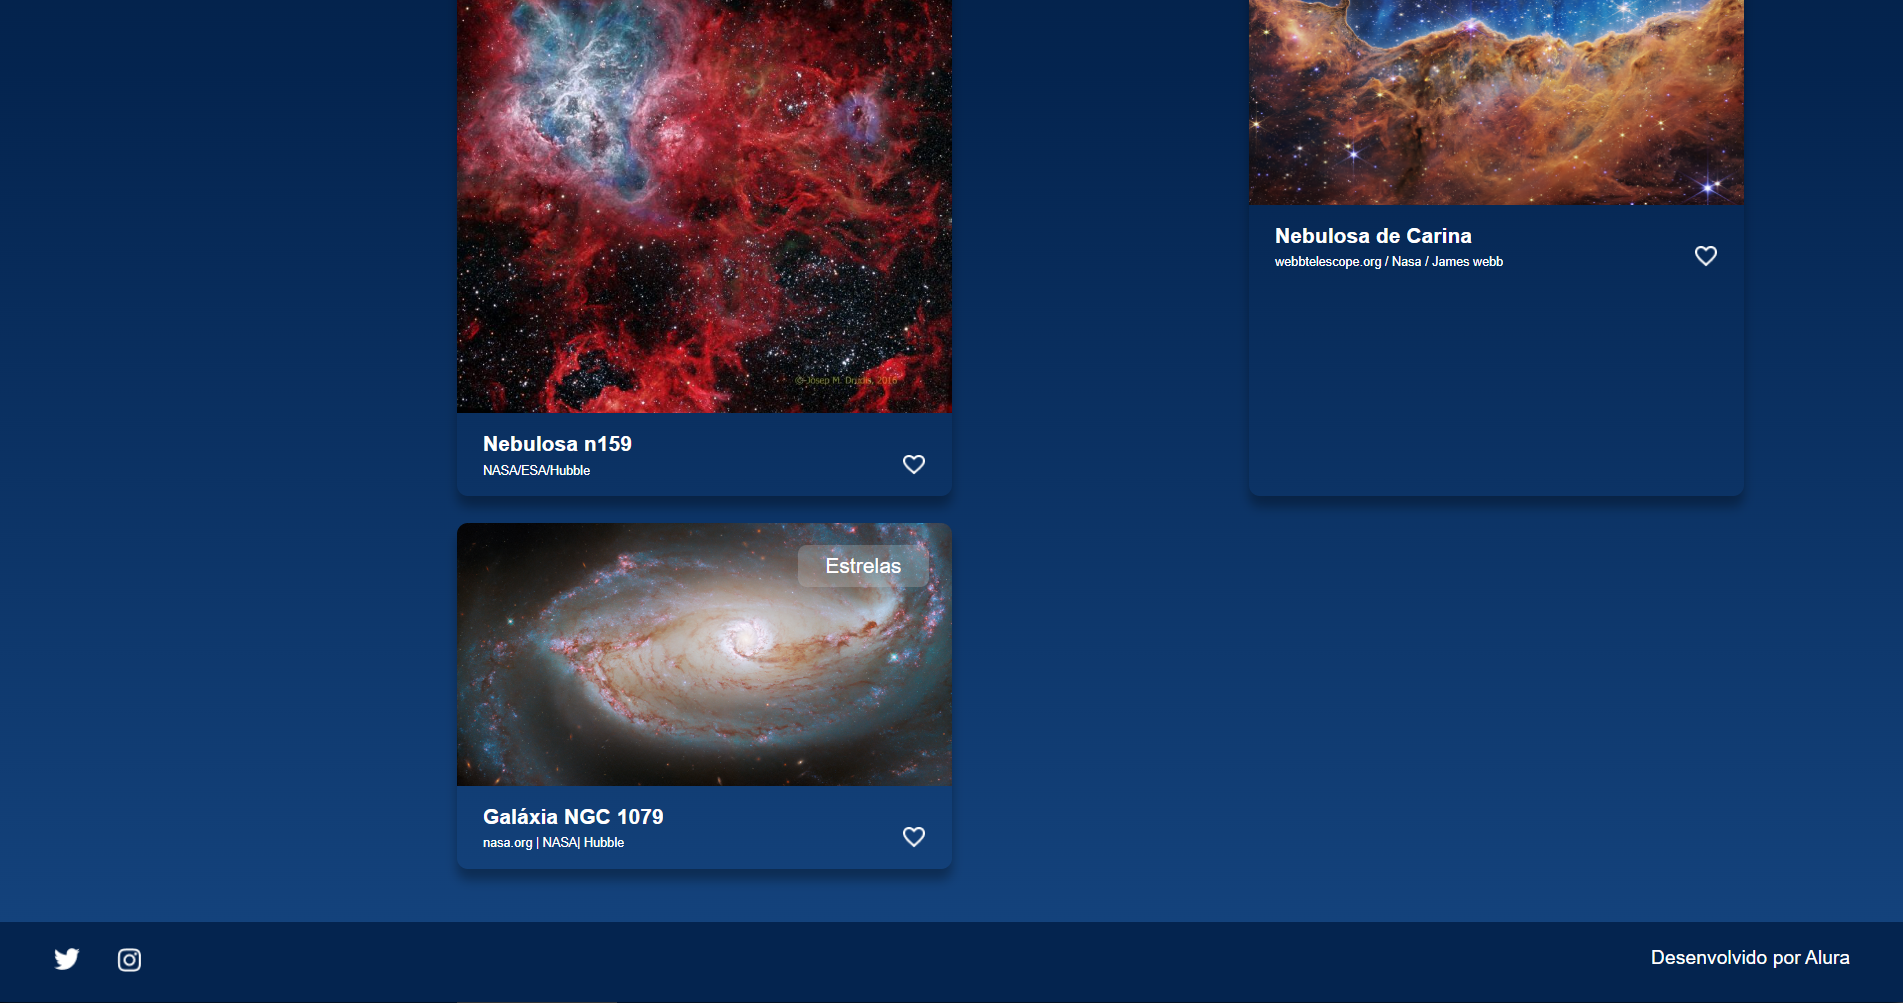
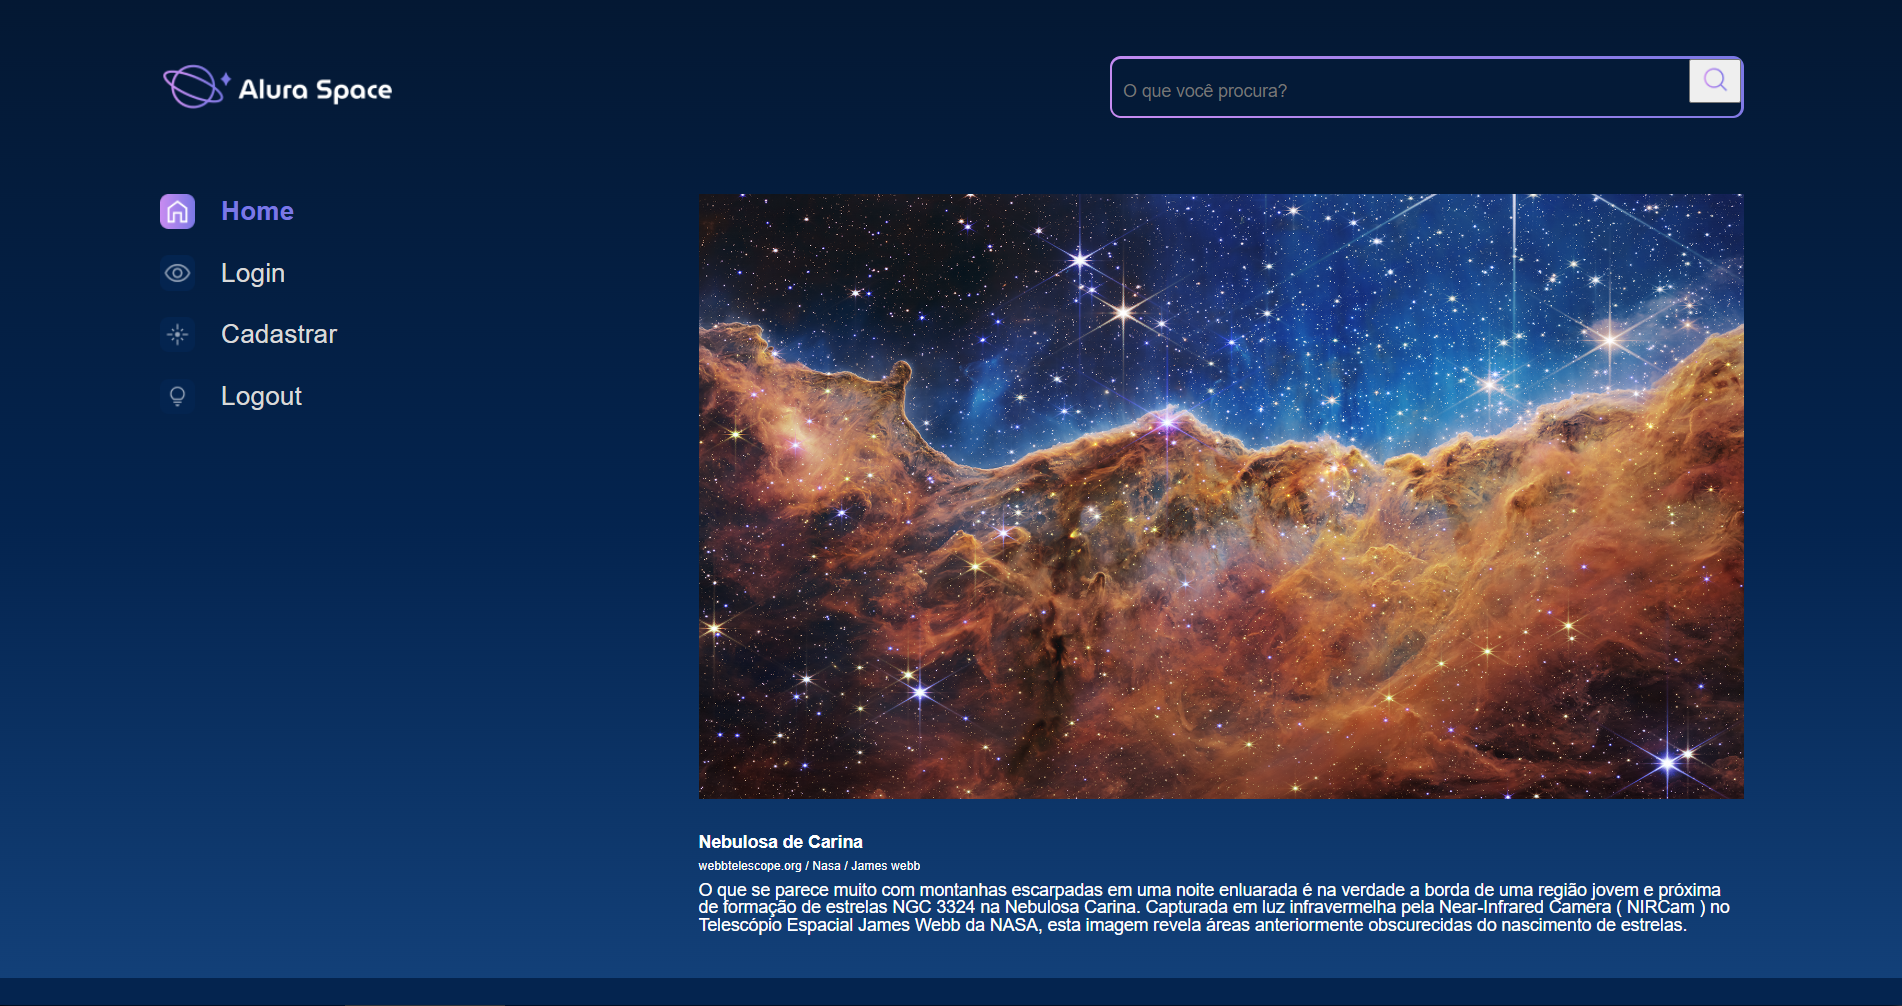
Finalização do sistema de Login

diff --git a/templates/usuarios/cadastro.html b/templates/usuarios/cadastro.html
@@ -14,13 +14,13 @@
       rel="stylesheet"
     />
     <!-- CSS only -->
+    <link rel="stylesheet" href="{% static '/styles/style.css' %}" />
     <link
       href="https://cdn.jsdelivr.net/npm/bootstrap@5.2.2/dist/css/bootstrap.min.css"
       rel="stylesheet"
       integrity="sha384-Zenh87qX5JnK2Jl0vWa8Ck2rdkQ2Bzep5IDxbcnCeuOxjzrPF/et3URy9Bv1WTRi"
       crossorigin="anonymous"
     />
-    <link rel="stylesheet" href="{% static '/styles/style.css' %}" />
   </head>
 
   <body>
@@ -32,11 +32,7 @@
             alt="Logo da Alura Space"
           />
         </a>
-        {% for message in messages %}
-        <div class="alert alert-primary">
-          <p id="messages">{{message}}</p>
-        </div>
-        {% endfor %}
+        {% include 'partials/_alertas.html' %}
         <div class="cabecalho__busca">
           <div class="busca__fundo">
             <form action="{% url 'buscar' %}">
@@ -97,6 +93,11 @@
                 >
                 {{ field }}
               </div>
+              {% for error in field.errors %}
+              <div class="alert alert-danger" style="background-color: red; color: #ccc;">
+                {{error}}
+              </div>
+              {% endfor %}
               {% endfor %}
             </div>
 
@@ -115,5 +116,5 @@
     </div>
   </body>
 
-  {% include 'galeria/partials/_footer.html' %}
+  {% include 'partials/_footer.html' %}
 </html>

diff --git a/templates/usuarios/login.html b/templates/usuarios/login.html
@@ -14,13 +14,13 @@
       rel="stylesheet"
     />
     <!-- CSS only -->
+    <link rel="stylesheet" href="{% static '/styles/style.css' %}" />
     <link
       href="https://cdn.jsdelivr.net/npm/bootstrap@5.2.2/dist/css/bootstrap.min.css"
       rel="stylesheet"
       integrity="sha384-Zenh87qX5JnK2Jl0vWa8Ck2rdkQ2Bzep5IDxbcnCeuOxjzrPF/et3URy9Bv1WTRi"
       crossorigin="anonymous"
     />
-    <link rel="stylesheet" href="{% static '/styles/style.css' %}" />
   </head>
 
   <body>
@@ -32,11 +32,7 @@
             alt="Logo da Alura Space"
           />
         </a>
-        {% for message in messages %}
-        <div class="alert alert-primary">
-          <p id="messages">{{message}}</p>
-        </div>
-        {% endfor %}
+        {% include 'partials/_alertas.html' %}
         <div class="cabecalho__busca">
           <div class="busca__fundo">
             <form action="{% url 'buscar' %}">
@@ -115,5 +111,5 @@
     </div>
   </body>
 
-  {% include 'galeria/partials/_footer.html' %}
+  {% include 'partials/_footer.html' %}
 </html>

diff --git a/setup/static/styles/style.css b/setup/static/styles/style.css
@@ -382,3 +382,27 @@ table {
     border: 2px solid #7B78E5;
     cursor: pointer;
 }
+
+.alert {
+    --bs-alert-bg: transparent;
+    --bs-alert-padding-x: 1rem;
+    --bs-alert-padding-y: 1rem;
+    --bs-alert-margin-bottom: 1rem;
+    --bs-alert-color: inherit;
+    --bs-alert-border-color: transparent;
+    --bs-alert-border: 1px solid var(--bs-alert-border-color);
+    --bs-alert-border-radius: 0.375rem;
+    position: relative;
+    padding: var(--bs-alert-padding-y) var(--bs-alert-padding-x);
+    margin-bottom: var(--bs-alert-margin-bottom);
+    color: var(--bs-alert-color);
+    background-color: var(--bs-alert-bg);
+    border: var(--bs-alert-border);
+    border-radius: var(--bs-alert-border-radius);
+}
+
+.alert-primary {
+    --bs-alert-color: #084298;
+    --bs-alert-bg: #cfe2ff;
+    --bs-alert-border-color: #b6d4fe;
+}

diff --git a/static/styles/style.css b/static/styles/style.css
@@ -382,3 +382,27 @@ table {
     border: 2px solid #7B78E5;
     cursor: pointer;
 }
+
+.alert {
+    --bs-alert-bg: transparent;
+    --bs-alert-padding-x: 1rem;
+    --bs-alert-padding-y: 1rem;
+    --bs-alert-margin-bottom: 1rem;
+    --bs-alert-color: inherit;
+    --bs-alert-border-color: transparent;
+    --bs-alert-border: 1px solid var(--bs-alert-border-color);
+    --bs-alert-border-radius: 0.375rem;
+    position: relative;
+    padding: var(--bs-alert-padding-y) var(--bs-alert-padding-x);
+    margin-bottom: var(--bs-alert-margin-bottom);
+    color: var(--bs-alert-color);
+    background-color: var(--bs-alert-bg);
+    border: var(--bs-alert-border);
+    border-radius: var(--bs-alert-border-radius);
+}
+
+.alert-primary {
+    --bs-alert-color: #084298;
+    --bs-alert-bg: #cfe2ff;
+    --bs-alert-border-color: #b6d4fe;
+}

diff --git a/templates/galeria/base.html b/templates/galeria/base.html
@@ -11,18 +11,12 @@
     <link rel="preconnect" href="https://fonts.gstatic.com" crossorigin>
     <link href="https://fonts.googleapis.com/css2?family=Poppins:wght@400;500;600&display=swap" rel="stylesheet">
     <link rel="stylesheet" href="{% static '/styles/style.css' %}">
-    <link
-    href="https://cdn.jsdelivr.net/npm/bootstrap@5.2.2/dist/css/bootstrap.min.css"
-    rel="stylesheet"
-    integrity="sha384-Zenh87qX5JnK2Jl0vWa8Ck2rdkQ2Bzep5IDxbcnCeuOxjzrPF/et3URy9Bv1WTRi"
-    crossorigin="anonymous"
-    />
 </head>
 
 <body>
-    {% include 'galeria/partials/_menu.html' %}
+    {% include 'partials/_menu.html' %}
     {% block content %}{% endblock %}
-    {% include 'galeria/partials/_footer.html' %}
+    {% include 'partials/_footer.html' %}
 </body>
 
 </html>

diff --git a/templates/partials/_menu.html b/templates/partials/_menu.html
@@ -3,7 +3,7 @@
     <header class="cabecalho">
         <img src="{% static '/assets/logo/Logo(2).png' %}" alt="Logo da Alura Space" />
         {% for message in messages %}
-        <div class="alert alert-primary">
+        <div class="alert alert-primary" style="background-color: rgb(1, 136, 77); color: #ccc;">
             <p id="messages">{{message}}</p>
         </div>
         {% endfor %}

diff --git a/templates/partials/_alertas.html b/templates/partials/_alertas.html
@@ -1,0 +1,7 @@
+{% if messages %}
+    {% for message in messages %}
+        <div class="alert alert-{{ message.tags }}">
+            <p id="messages">{{message}}</p>
+        </div>
+    {% endfor %}
+{% endif %}

diff --git a/usuarios/forms.py b/usuarios/forms.py
@@ -34,7 +34,7 @@ class CadastroForms(forms.Form):
         widget=forms.TextInput(
             attrs={
                 "class": "form-control",
-                "placeholder": "Ex.: Caio Lindo"
+                "placeholder": "Ex.: CaioLindo"
             }
         )
     )
@@ -71,3 +71,25 @@ class CadastroForms(forms.Form):
             }
         )
     )
+
+    def clean_nome_cadastro(self):
+        nome = self.cleaned_data.get('nome_cadastro')
+
+        if nome:
+            nome = nome.strip()
+
+            if not ' ' in nome:
+                return nome
+
+            raise forms.ValidationError(
+                "Não é possível inserir espaços dentro do campo nome!")
+
+    def clean_senha2(self):
+        senha_1 = self.cleaned_data.get('senha1')
+        senha_2 = self.cleaned_data.get('senha2')
+
+        if senha_1 and senha_2:
+            if senha_1 != senha_2:
+                raise forms.ValidationError('Senhas não são iguais')
+            else:
+                return senha_2

diff --git a/galeria/views.py b/galeria/views.py
@@ -1,9 +1,14 @@
-from django.shortcuts import get_object_or_404, render
+from django.contrib import messages
+from django.shortcuts import get_object_or_404, redirect, render
 
 from galeria.models import Fotografia
 
 
 def index(request):
+    if not request.user.is_authenticated:
+        messages.error(request, 'Realize o login para utilizar esta aba.')
+        return redirect('login')
+
     fotografias = Fotografia.objects.order_by(
         "-data_fotografia").filter(publicada=True)
     return render(request, 'galeria/index.html', {'cards': fotografias})
@@ -15,6 +20,10 @@ def imagem(request, foto_id):
 
 
 def buscar(request):
+    if not request.user.is_authenticated:
+        messages.error(request, 'Realize o login para utilizar esta aba.')
+        return redirect('login')
+
     fotografias = Fotografia.objects.order_by(
         "-data_fotografia").filter(publicada=True)
 

diff --git a/galeria/migrations/0006_fotografia_usuario.py b/galeria/migrations/0006_fotografia_usuario.py
@@ -1,0 +1,21 @@
+# Generated by Django 4.1 on 2023-05-07 00:01
+
+from django.conf import settings
+from django.db import migrations, models
+import django.db.models.deletion
+
+
+class Migration(migrations.Migration):
+
+    dependencies = [
+        migrations.swappable_dependency(settings.AUTH_USER_MODEL),
+        ('galeria', '0005_alter_fotografia_foto'),
+    ]
+
+    operations = [
+        migrations.AddField(
+            model_name='fotografia',
+            name='usuario',
+            field=models.ForeignKey(null=True, on_delete=django.db.models.deletion.SET_NULL, related_name='user', to=settings.AUTH_USER_MODEL),
+        ),
+    ]

diff --git a/galeria/models.py b/galeria/models.py
@@ -1,5 +1,6 @@
 from datetime import datetime
 
+from django.contrib.auth.models import User
 from django.db import models
 
 
@@ -20,6 +21,13 @@ class Fotografia(models.Model):
     foto = models.ImageField(upload_to="fotos/%Y/%m/%d/", blank=True)
     publicada = models.BooleanField(default=False)
     data_fotografia = models.DateTimeField(default=datetime.now, blank=False)
+    usuario = models.ForeignKey(
+        to=User,
+        on_delete=models.SET_NULL,
+        null=True,
+        blank=False,
+        related_name='user',
+    )
 
     def __str__(self) -> str:
         return self.nome
